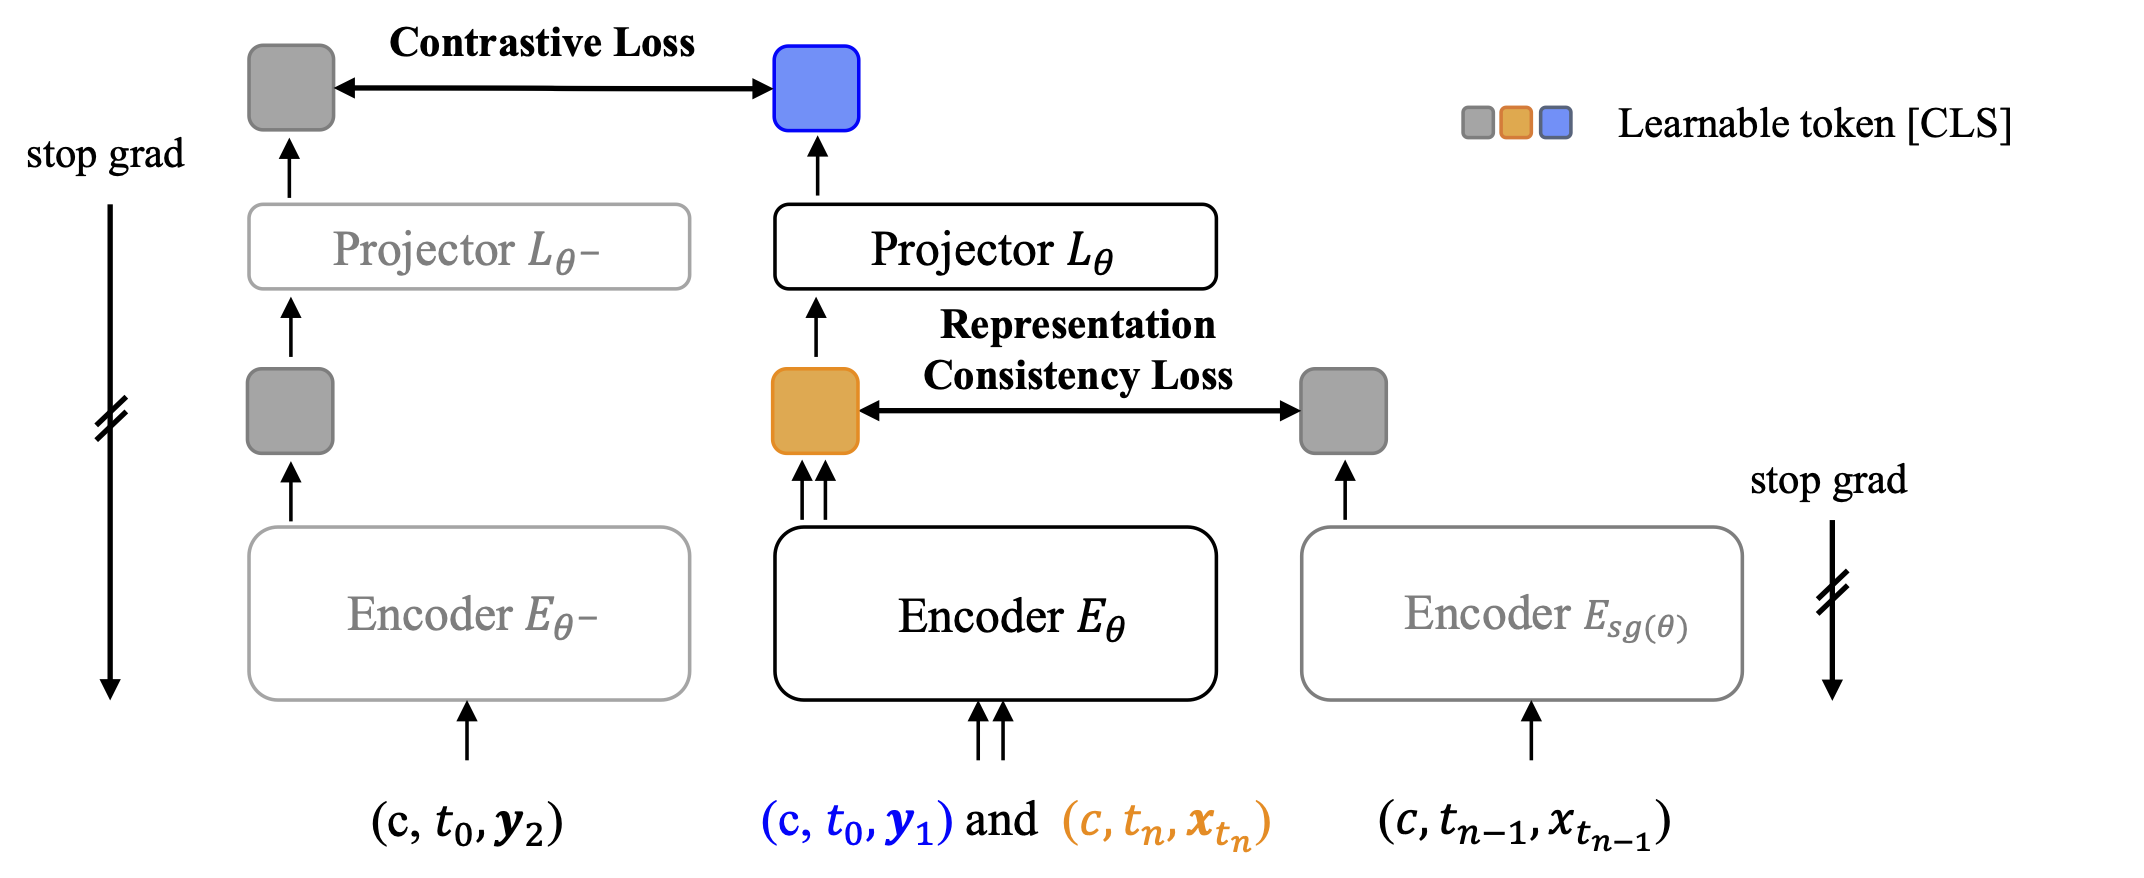
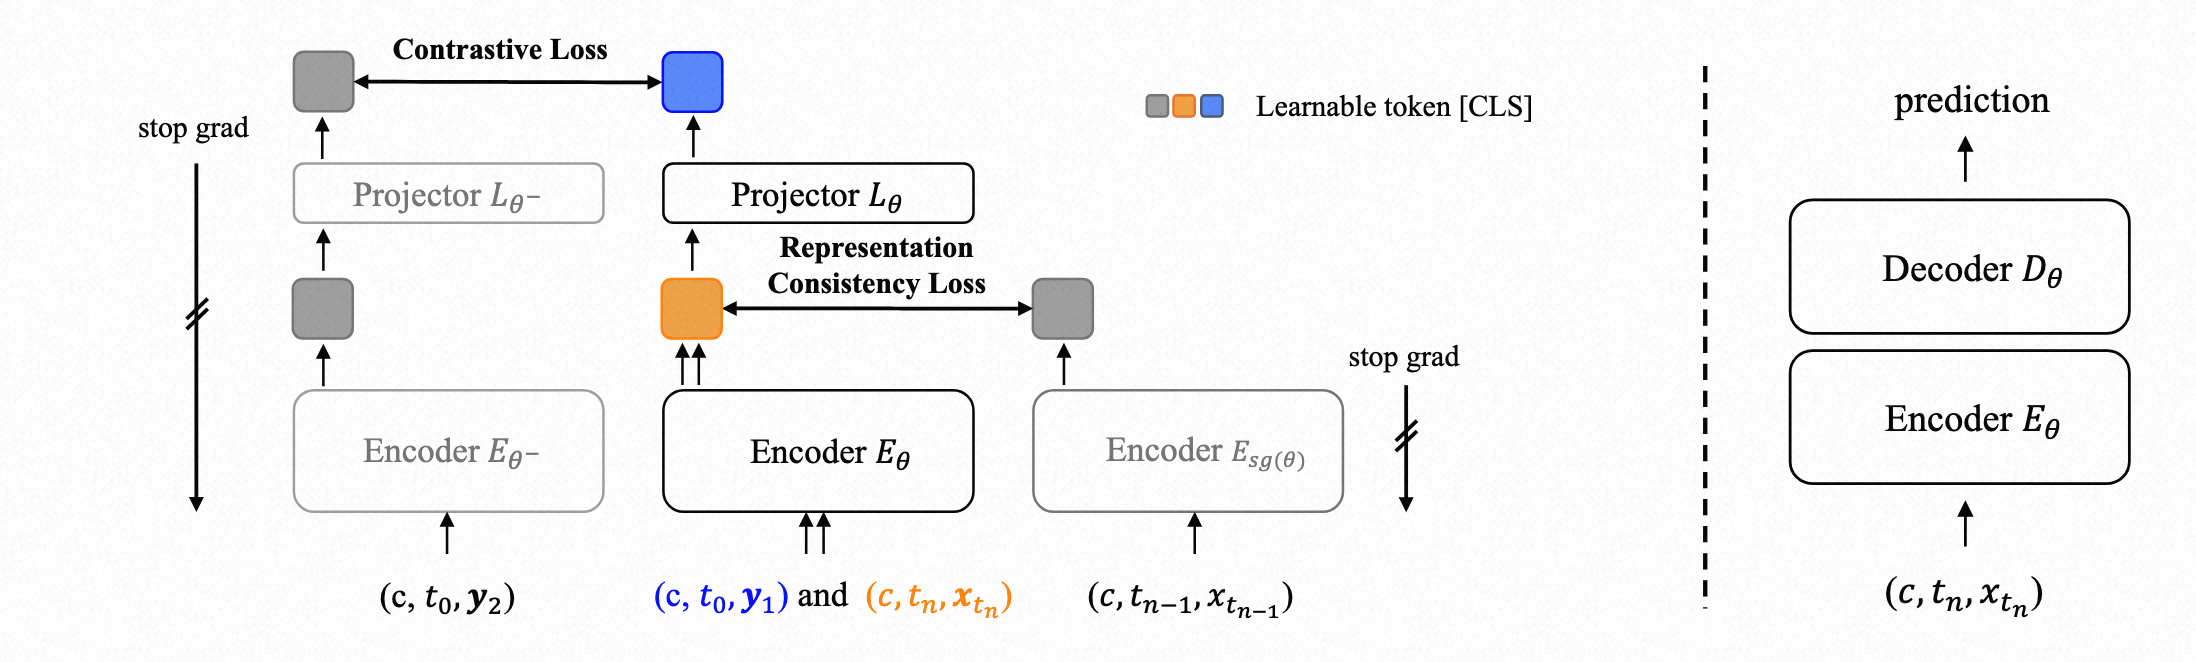
update

diff --git a/index.html b/index.html
@@ -68,7 +68,7 @@
             </div>
 
             <div class="x-section-title"><div class="x-gradient-font">Results <span style="font-size: 40px; font-weight:600;">|</span> Diffusion model on ImageNet-256 </div></div>
-            <div style="width: 100%;"><img src="assets/imagenet256.png" style="width: 50%;"></div>
+            <div style="width: 100%;"><center><img src="assets/imagenet256.png" style="width: 50%;"></center></div>
             <p>
                 Table 1: System-level comparison on ImageNet-256 with CFG. For latent-space models, we display model parameters and sampling GFLOPs of both the VAE and the generative model.
                 We report GFLOPs of our EPG following DiT.  †: both model parameters and GFLOPs are composed of two generative models and one classifier.
@@ -76,13 +76,13 @@
             </p>
             <!-- <div id="results-bhvr"></div> -->
             <div class="x-section-title"><div class="x-gradient-font">Results <span style="font-size: 40px; font-weight:600;">|</span> Consistency model on ImageNet-256 </div></div>
-            <div style="width: 100%;"><img src="assets/imagenet256_onestep.png" style="width: 50%;"></div>
+            <div style="width: 100%;"><center><<img src="assets/imagenet256_onestep.png" style="width: 50%;"></center><</div>
             <p>
                 Table 2: Benchmarking few-step class-conditional image generation on ImageNet-256.
             </p>
 
             <div class="x-section-title"><div class="x-gradient-font">Results <span style="font-size: 40px; font-weight:600;">|</span> Diffusion model on ImageNet-512</div></div>
-            <div style="width: 100%;"><img src="assets/imagenet512.png" style="width: 50%;"></div>
+            <div style="width: 100%;"><center><<img src="assets/imagenet512.png" style="width: 50%;"></center><</div>
             <p>
                 Table 3: System-level comparison on ImageNet-512 with CFG. Evaluation settings are the same as Table 1.
             </p>
@@ -91,7 +91,13 @@
 
             <div class="x-section-title"><div class="x-gradient-font">Methodology</div></div>
             <p>
-                <img src="assets/method.png" style="width: 50%;">
+                <center><img src="assets/method.png" style="width: 70%;"></center>
+            </p>
+            <p>
+                Figure 2: Overview of our method. (Left) Our pre-training framework. c is a learnable token [CLS], t0, tn, tn−1 are time conditions, (y1, y2) are augmented views of clean image xt0,
+                (xtn , xtn−1 ) are temporally adjacent points from the same PF ODE trajectory with xt0 as the initial point.
+                θ<sup>−</sup> is the exponential moving average of θ, and sg is the stop gradient operation.
+                (Right) Fine-tuning stage. After pre-training, we discard the projector and train Eθ along side a randomly initialized decoder Dθ in downstream generation tasks.
             </p>
             <p>
                 Prior works have explored training diffusion models directly on raw pixels, developing specialized model architectures or training techniques.
@@ -111,15 +117,15 @@
                 If you find our work interesting, please consider citing our paper:
             </p>
             <p class="bibtex x-gradient-block">
-                @misc{lei2025advancingendtoendpixelspace,
-                    title={Advancing End-to-End Pixel Space Generative Modeling via Self-supervised Pre-training}, 
-                    author={Jiachen Lei and Keli Liu and Julius Berner and Haiming Yu and Hongkai Zheng and Jiahong Wu and Xiangxiang Chu},
-                    year={2025},
-                    eprint={2510.12586},
-                    archivePrefix={arXiv},
-                    primaryClass={cs.CV},
-                    url={https://arxiv.org/abs/2510.12586}, 
-              }
+    @misc{lei2025advancingendtoendpixelspace,
+        title={Advancing End-to-End Pixel Space Generative Modeling via Self-supervised Pre-training}, 
+        author={Jiachen Lei and Keli Liu and Julius Berner and Haiming Yu and Hongkai Zheng and Jiahong Wu and Xiangxiang Chu},
+        year={2025},
+        eprint={2510.12586},
+        archivePrefix={arXiv},
+        primaryClass={cs.CV},
+        url={https://arxiv.org/abs/2510.12586}, 
+    }
             </p>
         </div>
         <div id="bottombar">
